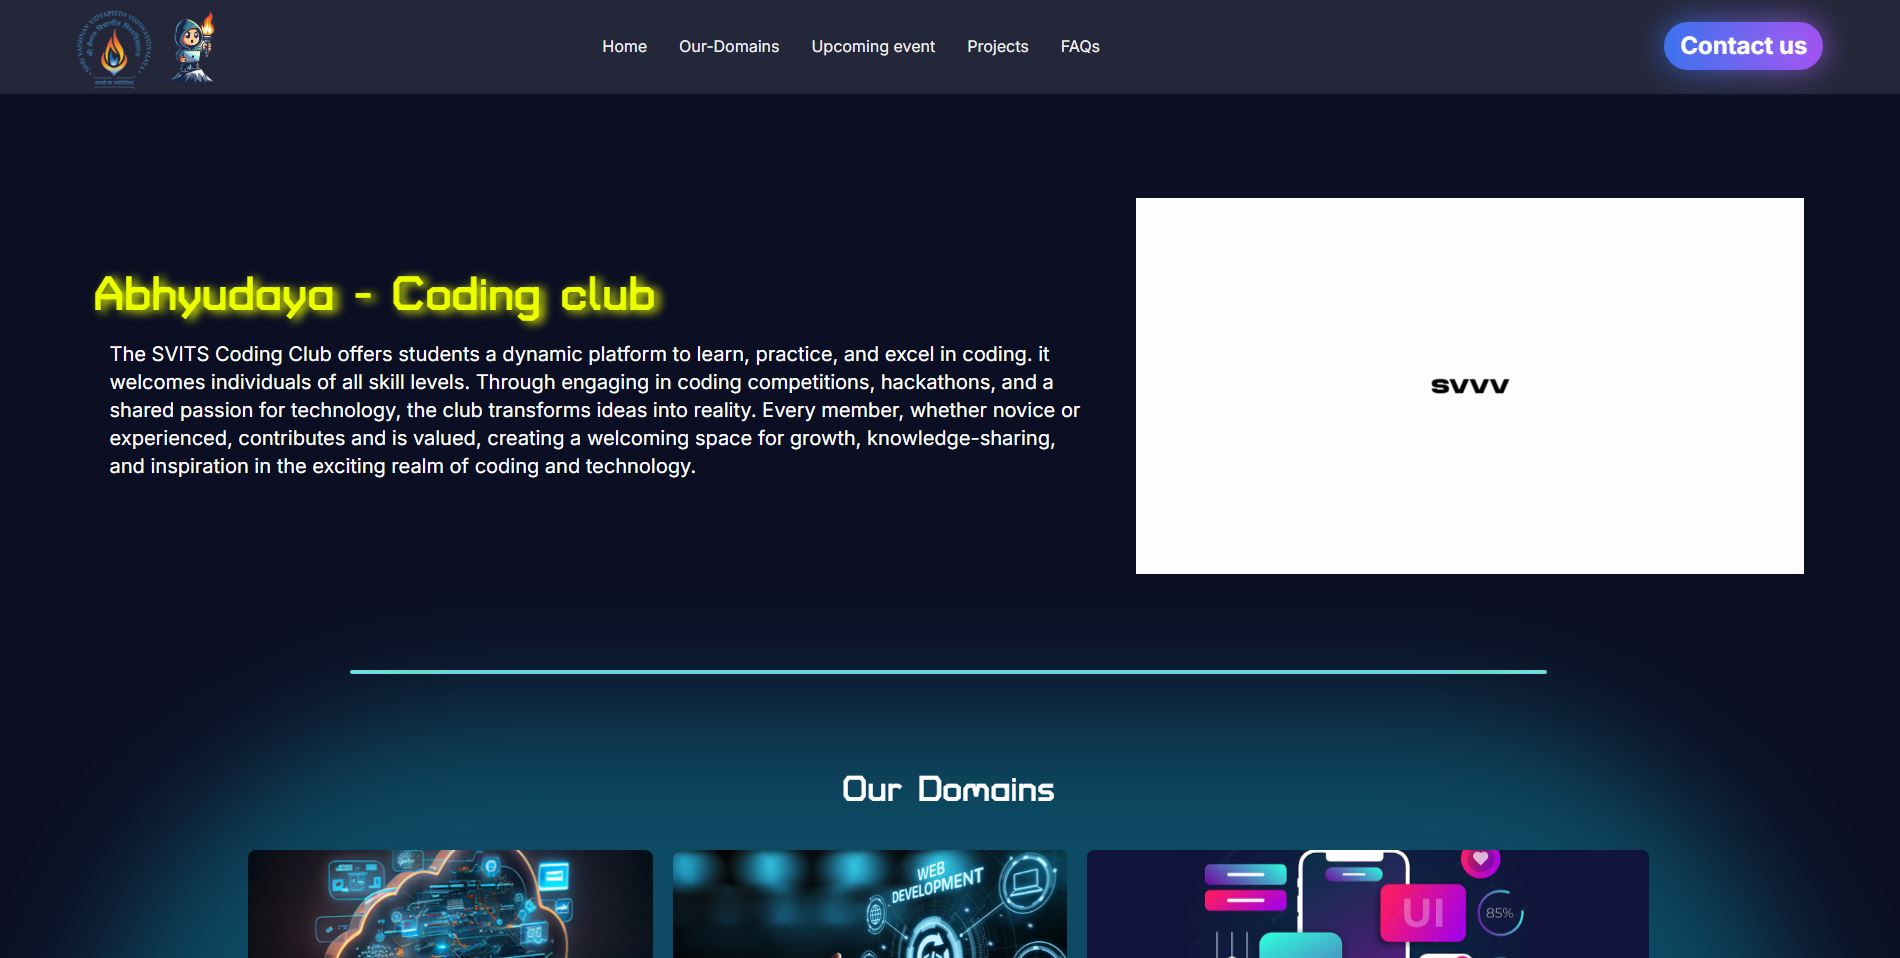
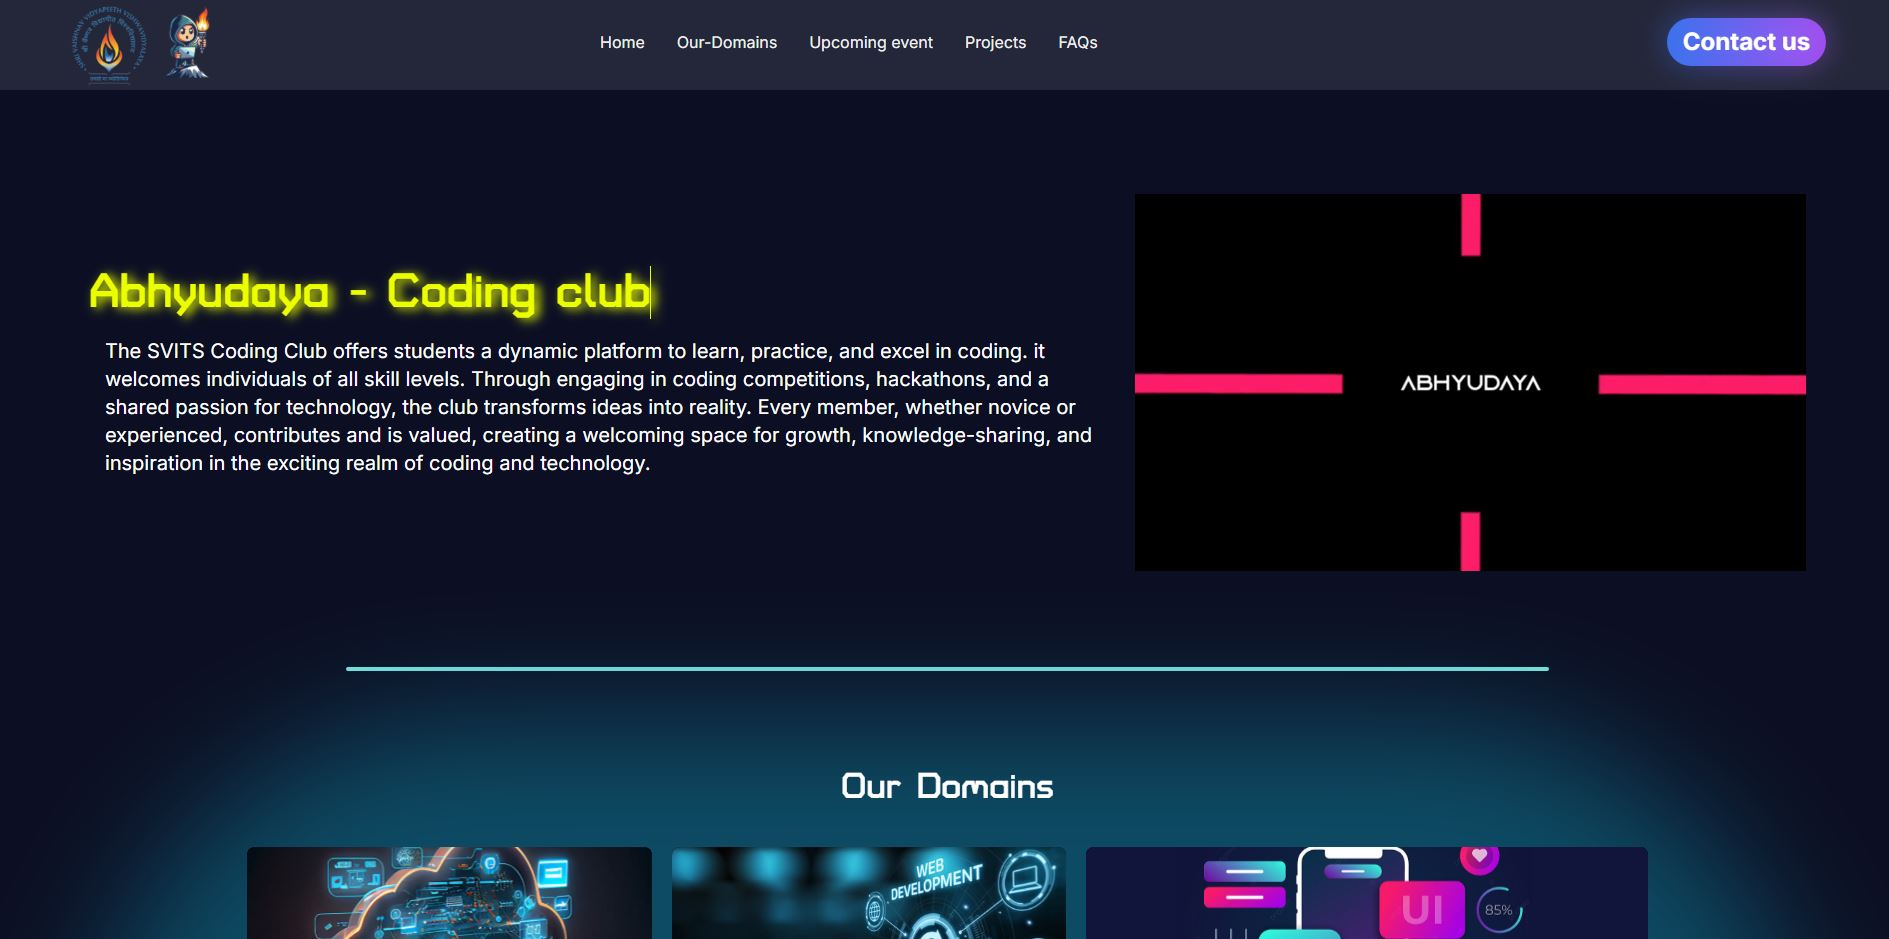
Projects Added

diff --git a/utils/data/projects-data.js b/utils/data/projects-data.js
@@ -6,6 +6,36 @@ import travel from '/public/image/travel.jpg';
 export const projectsData = [
     {
         id: 1,
+        name: 'Astex - Software Agency Website',
+        description: 'Astex is a versatile software agency dedicated to delivering exceptional digital solutions. We specialize in web development, app development, UI/UX design, and graphics design, offering a comprehensive range of services tailored to meet your business needs. Whether you`re a startup or an established brand, Astex is your trusted partner in creating impactful digital experiences.',
+        tools: ['React', 'Next JS', 'Vercel', 'Tailwind CSS'],
+        role: 'Frontend Developer',
+        code: '',
+        demo: '',
+        image: travel,
+    },
+    {
+        id: 2,
+        name: 'Nexhub - Tech Community Website',
+        description: 'NexHub is a vibrant tech community that fosters learning and growth by organizing workshops, seminars, and coding events in collaboration with leading companies. Our mission is to bridge the gap between technology enthusiasts and industry opportunities, creating a space where innovation thrives and ideas come to life.',
+        tools: ['React', 'Next JS', 'Vercel', 'Tailwind CSS'],
+        role: 'Frontend Developer',
+        code: '',
+        demo: '',
+        image: travel,
+    },
+    {
+        id: 3,
+        name: 'Airyyrides - Bike Rental Website',
+        description: 'AirryRides is a hassle-free bike rental platform where customers can conveniently book bikes for rent. Designed for travel enthusiasts and commuters alike, AirryRides simplifies the process of finding reliable and affordable bike rentals, making your journeys smoother and more enjoyable.',
+        tools: ['Next JS', 'Vercel', 'Tailwind CSS'],
+        role: 'Frontend Developer',
+        code: '',
+        demo: '',
+        image: travel,
+    },
+    {
+        id: 4,
         name: 'UniPrep - Exam Preparation Tool',
         description: "UniPrep is go-to platform for academic success. We understand the challenges university students face when preparing for exams, and UniPrep make that journey easier and more efficient. UniPrep is your ultimate academic companion, designed to streamline and enhance your university study experience. We provide curated important questions, previous years' exam papers, and opportunities to buy and sell handwritten notes. Whether you're preparing for mid-terms or final exams, UniPrep offers the resources you need to succeed.",
         tools: ['React', 'Next JS', 'Express Js', 'Node JS', 'AWS', 'Vercel', 'Tailwind CSS'],
@@ -15,17 +45,7 @@ export const projectsData = [
         image: crefin,
     },
     {
-        id: 2,
-        name: 'Assets Management - IMC Indore',
-        description: 'The Assets Management System is a robust solution tailored to assist municipal corporations in efficiently managing both movable and non-movable assets. By providing a centralized platform, the system streamlines the tracking, maintenance, and utilization of assets such as infrastructure, vehicles, equipment, and public facilities. It enhances transparency and accountability, enabling better decision-making and resource allocation. With features like real-time monitoring, automated alerts for maintenance, and detailed reporting, the system ensures that municipal assets are effectively managed, reducing costs and improving overall operational efficiency. This tool is vital for modern municipal management, ensuring sustainable and efficient asset utilization.',
-        tools: ['React', 'Next JS', 'Express Js', 'Node JS', 'AWS', 'Vercel', 'Tailwind CSS'],
-        role: 'Frontend Developer',
-        code: '',
-        demo: '',
-        image: travel,
-    },
-    {
-        id: 3,
+        id: 5,
         name: 'Navgo - Bus Tracking WebApp',
         description: 'NavGo is a dedicated bus tracking web app designed specifically for college students. With NavGo, students can live track their college buses in real-time, providing them with the convenience of knowing exactly when their bus will arrive. This eliminates the need for unnecessary waiting at bus stops, making daily commutes more efficient and stress-free. NavGo`s user-friendly interface ensures that students can quickly access accurate bus locations, helping them manage their time better. Tailored for the needs of college campuses, NavGo enhances the overall student experience by bringing reliability and convenience to their daily transportation routine.',
         tools: ['React', 'Next JS', 'Java', 'Springboot', 'Hibernate', 'AWS', 'Tailwind CSS'],
@@ -34,8 +54,9 @@ export const projectsData = [
         demo: '',
         image: realEstate,
     },
-    {
-        id: 4,
+    
+     {
+        id: 6,
         name: 'SvvvInvento - Inventory Management System',
         description: `SVVV Invento is a comprehensive web application designed to efficiently manage and track electronic inventory items such as laptops, desktops, and more within educational institutions. Developed using HTML, CSS, Bootstrap, JavaScript, Java, and Hibernate, this system ensures smooth inventory management for faculty members.
         Key Features : Monitor the available stock of various inventory items, View the number of items currently issued to faculty members, Easily add new inventory items to the system, Seamlessly issue inventory items to faculty members, Access the history of previously issued and returned items, Track the history of discarded or retired items, Get an overview of the total inventory.`,
@@ -44,20 +65,15 @@ export const projectsData = [
         demo: '',
         image: ayla,
         role: 'Frontend Developer',
+    },
+    {
+        id: 7,
+        name: 'Abhyudaya - Svvv Official Coding Club',
+        description: `Abhyudaya Website is the official online presence of Vaishnav College's coding club. It showcases all club-related information, including events, workshops, and achievements, while serving as a hub for students to stay updated and engaged with the coding community.`,
+        tools: ['React', 'Next JS', 'Node Js', 'Express Js', 'Tailwind CSS'],
+        code: '',
+        demo: '',
+        image: ayla,
+        role: 'Frontend Developer',
     }
 ];
-
-
-// Do not remove any property.
-// Leave it blank instead as shown below
-
-// {
-//     id: 1,
-//     name: '',
-//     description: "",
-//     tools: [],
-//     role: '',
-//     code: '',
-//     demo: '',
-//     image: crefin,
-// },

diff --git a/utils/data/blogData.js b/utils/data/blogData.js
@@ -1,13 +1,48 @@
 import abhyudaya from '../../public/image/abhyudaya.JPG';
-import imc from '../../public/image/imc.JPG';
 import navgo from '../../public/image/navgo.JPG';
 import svvvinvento from '../../public/image/svvvinvento.JPG';
 import uniprep from '../../public/image/uniprep.JPG';
-import votesphere from '../../public/image/votesphere.JPG';
+import astex from '../../public/image/astex.JPG';
+import nexhub from '../../public/image/nexhub.JPG';
+import airyyrides from '../../public/image/airyyrides.JPG';
 
 export const blogData = [
     {
         id: 1,
+        name: 'Astex - Software Agency Website',
+        link: `https://theastex-stf.vercel.app/`,
+        date: '8/Dec/2024 - Present',
+        description: `Astex is a software agency offering web and app development, UI/UX design, and graphic design to meet diverse business needs.`,
+        image: astex,
+    },
+    
+    {
+        id: 2,
+        name: 'Airyyrides - Bike Rental Website',
+        link: `https://airyyrides-bike.vercel.app/`,
+        date: '5/Dec/2024 - 8/Dec/2024',
+        description: `AirryRides simplifies bike rentals, letting customers book reliable bikes for travel and commuting.`,
+        image: airyyrides,
+    },
+    {
+        id: 3,
+        name: 'Nexhub - Tech Community Website',
+        link: `https://nexhub-community-lime.vercel.app/`,
+        date: '14/Nov/2024 - 16/Nov/2024',
+        description: `NexHub is a tech community hosting workshops, seminars, and coding events in collaboration with leading companies.`,
+        image: nexhub,
+    },
+    
+    {
+        id: 4,
+        name: 'Navgo - Bus Tracking WebApp',
+        date: '18/May/2024 - 1/Dec/2024',
+        link : `https://navgo-svvvbus.vercel.app/`,
+        description: 'NavGo is a dedicated bus tracking web app designed specifically for college students. With NavGo, students can live track their college buses in real time.',
+        image: navgo,
+    },
+    {
+        id: 5,
         name: 'UniPrep - Exam Preparation Tool',
         link: `https://uniprep-edu.vercel.app/`,
         date: '30/June/2024 - 25/Auguest/2024',
@@ -16,58 +51,19 @@ UniPrep designed to enhance your university study experience. UniPrep provide cu
         image: uniprep,
     },
     {
-        id: 2,
-        name: 'Assets Management - IMC Indore',
-        date: '26/July/2024 - 28/July/2024',
-        link : `https://imc-hackndore.vercel.app/`,
-        description: 'The Assets Management System is a robust solution tailored to assist municipal corporations in efficiently managing both movable and non-movable assets. By providing a centralized platform.',
-        image: imc,
-    },
-    {
-        id: 3,
-        name: 'Navgo - Bus Tracking WebApp',
-        date: '18/May/2024 - Present',
-        link : `https://navgo-svvv.vercel.app/`,
-        description: 'NavGo is a dedicated bus tracking web app designed specifically for college students. With NavGo, students can live track their college buses in real time.',
-        image: navgo,
-    },
-    {
-        id: 4,
+        id: 6,
         name: 'SvvvInvento - Inventory Management System',
         date: '26/April/2024 - 02/June/2024',
-        link : `https://github.com/aadixcodes/SvvvInvento-Inventory-Web-App`,
+        link : `https://svvvinvento.vercel.app/`,
         description: `SVVV Invento is a comprehensive web application designed to efficiently manage and track electronic inventory items such as laptops, desktops, and more within educational institutions.`,
         image: svvvinvento,
     },
     {
-        id: 5,
-        name: 'VoteSphere - Online Voting System',
-        date: '30/Dec/2023 - 31/Dec/2023',
-        link : `https://votesphere.vercel.app/`,
-        description: `VoteSphere is an online voting platform designed to streamline and secure the voting process. Easily create, manage, and participate in votes and elections with confidence and convenience.`,
-        image: votesphere,
-    },
-    {
-        id: 5,
-        name: 'Abhyudaya - Coding club Portfolio',
-        date: '02/Feb/2024 - 01/Mar/2024',
+        id: 7,
+        name: 'Abhyudaya - Svvv Official Coding Club',
+        date: '25/Jan/2024 - 10/Feb/2024',
         link : `https://abhyudayacodingclub.vercel.app/`,
-        description: `The Abhyudaya website is the official platform for the coding club of Vaishnav University. It serves as a hub for students passionate about coding, offering resources, event updates, and a space to showcase projects.`,
+        description: `Abhyudaya Website is the official platform for Vaishnav College's coding club, showcasing events and activities.`,
         image: abhyudaya,
-    }
+    },
 ];
-
-
-// Do not remove any property.
-// Leave it blank instead as shown below
-
-// {
-//     id: 1,
-//     name: '',
-//     description: "",
-//     tools: [],
-//     role: '',
-//     code: '',
-//     demo: '',
-//     image: crefin,
-// },

diff --git a/app/blog/page.js b/app/blog/page.js
@@ -1,48 +1,3 @@
-// // @flow strict
-
-// import { personalData } from "@/utils/data/personal-data";
-// import BlogCard from "../components/homepage/blog/blog-card";
-
-// async function getBlogs() {
-//   const res = await fetch(`https://dev.to/api/articles?username=${personalData.devUsername}`)
-
-//   if (!res.ok) {
-//     throw new Error('Failed to fetch data')
-//   }
-
-//   const data = await res.json();
-//   return data;
-// };
-
-// async function page() {
-//   const blogs = await getBlogs();
-
-//   return (
-//     <div className="py-8">
-//       <div className="flex justify-center my-5 lg:py-8">
-//         <div className="flex  items-center">
-//           <span className="w-24 h-[2px] bg-[#1a1443]"></span>
-//           <span className="bg-[#1a1443] w-fit text-white p-2 px-5 text-2xl rounded-md">
-//             All Blog
-//           </span>
-//           <span className="w-24 h-[2px] bg-[#1a1443]"></span>
-//         </div>
-//       </div>
-
-//       <div className="grid grid-cols-1 sm:grid-cols-2 md:grid-cols-3 gap-3 md:gap-5 lg:gap-8 xl:gap-10">
-//         {
-//           blogs.map((blog, i) => (
-//             blog?.cover_image &&
-//             <BlogCard blog={blog} key={i} />
-//           ))
-//         }
-//       </div>
-//     </div>
-//   );
-// };
-
-// export default page;
-// @flow strict
 import BlogCard from "../components/homepage/blog/blog-card";
 import { blogData } from "@/utils/data/blogData";
 

diff --git a/app/components/homepage/blog/blog-card.jsx b/app/components/homepage/blog/blog-card.jsx
@@ -1,41 +1,3 @@
-// // @flow strict
-// import Image from 'next/image';
-// import Link from 'next/link';
-
-// function BlogCard({ blog }) {
-//   const linkUrl = blog.link || `/blog/${blog.id}`;
-
-//   return (
-//     <div className="border border-[#1d293a] hover:border-[#464c6a] transition-all duration-500 bg-[#1b203e] rounded-lg relative group">
-//       <div className="h-44 lg:h-52 w-auto cursor-pointer overflow-hidden rounded-t-lg">
-//         <Image
-//           src={blog.image}
-//           height={1080}
-//           width={1920}
-//           alt=""
-//           className='h-full w-full group-hover:scale-110 transition-all duration-300'
-//         />
-//       </div>
-//       <div className="p-2 sm:p-3 flex flex-col">
-//         <Link href={linkUrl} target={blog.link ? "_blank" : "_self"} rel={blog.link ? "noopener noreferrer" : ""}>
-//           <p className='my-2 lg:my-3 cursor-pointer text-lg text-white sm:text-xl font-medium hover:text-violet-500'>
-//             {blog.name}
-//           </p>
-//         </Link>
-//         <p className='mb-2 text-sm text-[#16f2b3]'>
-//           {blog.date}
-//         </p>
-//         <p className='text-sm lg:text-base text-[#d3d8e8] pb-3 lg:pb-6 line-clamp-3'>
-//           {blog.description}
-//         </p>
-//       </div>
-//     </div>
-//   );
-// };
-
-// export default BlogCard;
-
-// @flow strict
 import Image from 'next/image';
 import Link from 'next/link';
 

diff --git a/app/blog/[slug]/page.js b/app/blog/[slug]/page.js
@@ -1,30 +1,3 @@
-// // @flow strict
-// import { personalData } from "@/utils/data/personal-data";
-
-// async function getBlog(slug) {
-//   const res = await fetch(`https://dev.to/api/articles/${personalData.devUsername}/${slug}`)
-
-//   if (!res.ok) {
-//     throw new Error('Failed to fetch data')
-//   }
-
-//   const data = await res.json();
-//   return data;
-// };
-
-// async function BlogDetails({params}) {
-//   const slug = params.slug;
-//   const blog = await getBlog(slug);
- 
-//   return (
-//     <div>
-//     </div>
-//   );
-// };
-
-// export default BlogDetails;
-
-// @flow strict
 import { blogData } from "@/utils/data/blogData";
 import Image from 'next/image';
 
